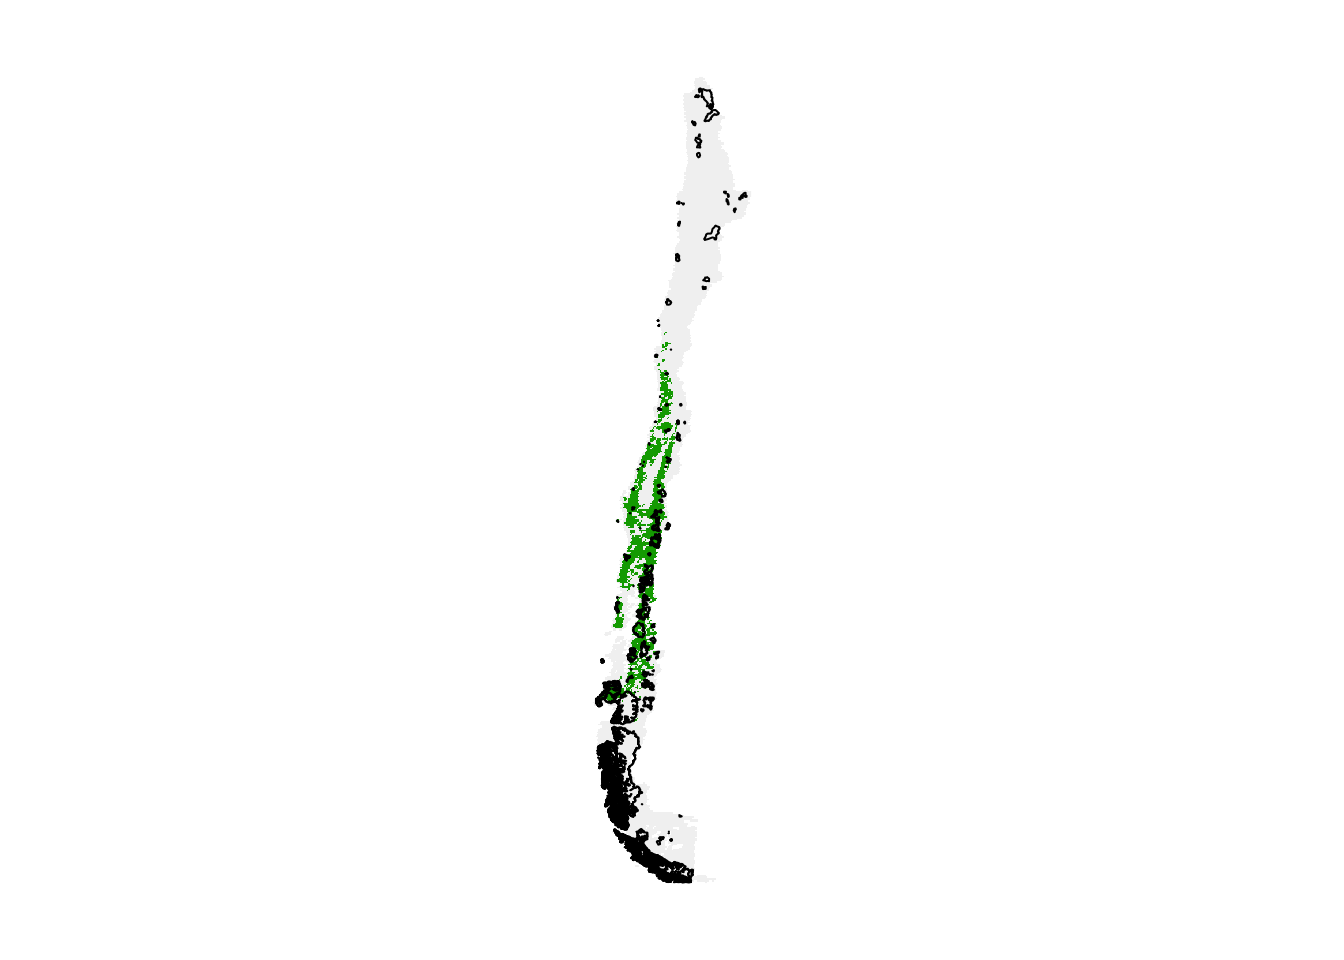
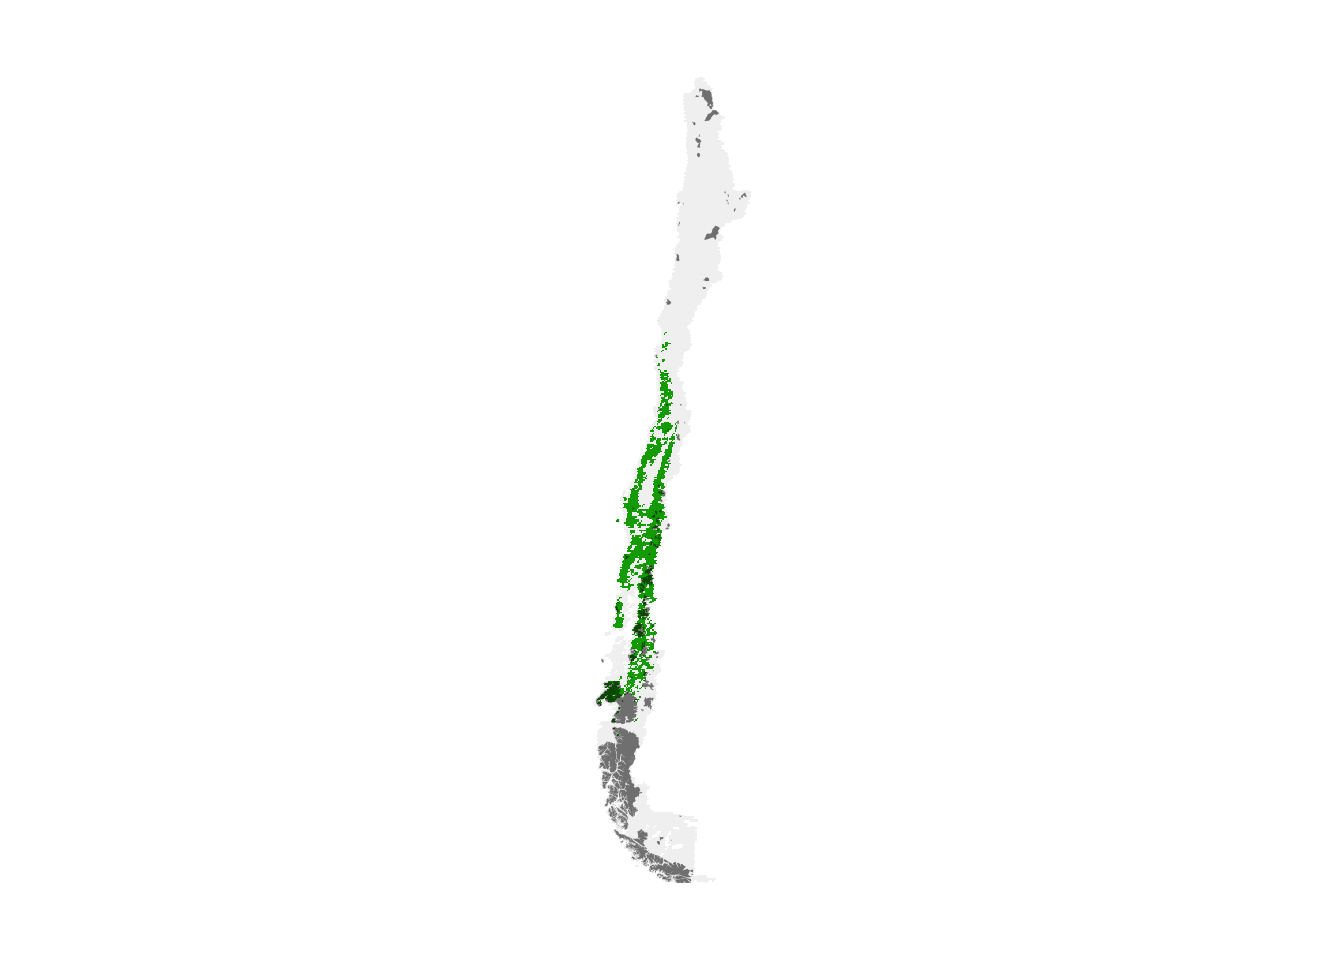
rebuild

Changed region(s): [[0.4375, 0.5, 0.5312, 0.9375], [0.5, 0.0938, 0.5312, 0.1562], [0.5312, 0.1875, 0.5625, 0.2188]]

diff --git a/docs/ebirdst.html b/docs/ebirdst.html
@@ -321,7 +321,7 @@ Checkpoint
 <h3 data-number="3.2.1" class="anchored" data-anchor-id="sec-ebirdst-review"><span class="header-section-number">3.2.1</span> Expert review</h3>
 <p>All species go through a process of expert human review prior to being released. The <code>ebirdst_runs</code> data frame also contains information from this review process. Reviewers assess each of the four seasons: breeding, non-breeding, pre-breeding migration, and post-breeding migration. Resident (i.e., non-migratory) species are identified by having <code>TRUE</code> in the <code>resident</code> column of <code>ebirdst_runs</code>, and these species are assessed across the whole year rather than seasonally. <code>ebirdst_runs</code> contains two important pieces of information for each season: a <strong>quality</strong> rating and <strong>seasonal dates</strong>.</p>
 <p>The <strong>seasonal dates</strong> define the weeks that fall within each season; the relative abundance estimates for these weeks get averaged to produce the seasonal relative abundance maps on the Status and Trends website. Breeding and non-breeding season dates are defined for each species as the weeks during those seasons when the species’ population does not move. For this reason, these seasons are also described as stationary periods. Migration periods are defined as the periods of movement between the stationary non-breeding and breeding seasons. Note that for many species these migratory periods include not only movement from breeding grounds to non-breeding grounds, but also post-breeding dispersal, molt migration, and other movements.</p>
-<p>Reviewers also examine the model estimates for each season to assess the amount of extrapolation or omission present in the model, and assign an associated quality rating ranging from 0 (lowest quality) to 3 (highest quality). Extrapolation refers to cases where the model predicts occurrence where the species is known to be absent, while omission refers to the model failing to predict occurrence where a species is known to be present.</p>
+<p>Reviewers also examine the model estimates for each season to assess the amount of extrapolation or omission present in the model, and assign an associated <strong>quality</strong> rating ranging from 0 (lowest quality) to 3 (highest quality). Extrapolation refers to cases where the model predicts occurrence where the species is known to be absent, while omission refers to the model failing to predict occurrence where a species is known to be present.</p>
 <p>A rating of 0 implies this season failed review and model results should not be used at all for this period. Ratings of 1-3 correspond to a gradient of more to less extrapolation and/or omission, and we often use a traffic light analogy when referring to them:</p>
 <ol type="1">
 <li><span style="color:#f20a02"><strong>Red light (1)</strong></span>: low quality, extensive extrapolation and/or omission and noise, but at least some regions have estimates that are accurate; can be used with caution in certain regions.</li>
@@ -697,7 +697,7 @@ Solution
 <span id="cb22-21"><a href="#cb22-21" aria-hidden="true" tabindex="-1"></a><span class="co">#&gt; min value   :     0.00 </span></span>
 <span id="cb22-22"><a href="#cb22-22" aria-hidden="true" tabindex="-1"></a><span class="co">#&gt; max value   :     2.73</span></span></code><button title="Copy to Clipboard" class="code-copy-button"><i class="bi"></i></button></pre></div>
 </div>
-<p>We can also subset the weekly cube to a range of weeks. For example, let’s subset to only the estimates for weeks in may, then take the average across the weeks.</p>
+<p>We can also subset the weekly cube to a range of weeks. For example, let’s subset to only the estimates for weeks in May, then take the average across the weeks.</p>
 <div class="cell" data-layout-align="center">
 <div class="sourceCode cell-code" id="cb23"><pre class="sourceCode r code-with-copy"><code class="sourceCode r"><span id="cb23-1"><a href="#cb23-1" aria-hidden="true" tabindex="-1"></a><span class="co"># determine which dates we want to include</span></span>
 <span id="cb23-2"><a href="#cb23-2" aria-hidden="true" tabindex="-1"></a>week_dates <span class="ot">&lt;-</span> <span class="fu">parse_raster_dates</span>(abd_weekly)</span>
@@ -731,7 +731,7 @@ Solution
 </div>
 </div>
 </div>
-<p>Recall that all eBird Status data products are provided for the entire globe regardless of the range of the species. Also, notice that some areas, such as most of the Amazon Basin, have missing values indicating that there was insufficient data to make a prediction in the region. Other areas, such as North America, had sufficient data to predict that the species is absent. Let’s try using the GIS data included in the workshop data package to crop the raster to the Chilean region of Los Lagos to make a more meaningful map.</p>
+<p>Recall that all eBird Status data products are provided for the entire globe, regardless of the range of the species. Also, notice that some areas, such as most of the Amazon Basin, have missing values indicating that there was insufficient data to make a prediction in the region. Other areas, such as North America, had sufficient data to predict that the species is absent. Let’s try using the GIS data included in the workshop data package to crop the raster to the Chilean region of Los Lagos to make a more meaningful map.</p>
 <div class="cell" data-layout-align="center">
 <div class="sourceCode cell-code" id="cb25"><pre class="sourceCode r code-with-copy"><code class="sourceCode r"><span id="cb25-1"><a href="#cb25-1" aria-hidden="true" tabindex="-1"></a><span class="co"># los lagos boundary, projected to match the raster data</span></span>
 <span id="cb25-2"><a href="#cb25-2" aria-hidden="true" tabindex="-1"></a>los_lagos <span class="ot">&lt;-</span> <span class="fu">read_sf</span>(<span class="st">"data/gis-data.gpkg"</span>,  <span class="at">layer =</span> <span class="st">"ne_states"</span>) <span class="sc">%&gt;%</span> </span>
@@ -811,7 +811,7 @@ Checkpoint
 <span id="cb27-18"><a href="#cb27-18" aria-hidden="true" tabindex="-1"></a><span class="co">#&gt; 5 2021-02-01  1.091 1.045 1.138</span></span>
 <span id="cb27-19"><a href="#cb27-19" aria-hidden="true" tabindex="-1"></a><span class="co">#&gt; 6 2021-02-08  1.182 1.130 1.237</span></span></code><button title="Copy to Clipboard" class="code-copy-button"><i class="bi"></i></button></pre></div>
 </div>
-<p>Now we can plot the trajectories with confidence intervals.</p>
+<p>Finally we can plot the trajectories with confidence intervals.</p>
 <div class="cell" data-layout-align="center">
 <div class="sourceCode cell-code" id="cb28"><pre class="sourceCode r code-with-copy"><code class="sourceCode r"><span id="cb28-1"><a href="#cb28-1" aria-hidden="true" tabindex="-1"></a><span class="fu">ggplot</span>(trajectory, <span class="fu">aes</span>(<span class="at">x =</span> week, <span class="at">y =</span> median)) <span class="sc">+</span></span>
 <span id="cb28-2"><a href="#cb28-2" aria-hidden="true" tabindex="-1"></a>  <span class="fu">geom_ribbon</span>(<span class="fu">aes</span>(<span class="at">ymin =</span> lower, <span class="at">ymax =</span> upper), <span class="at">alpha =</span> <span class="fl">0.3</span>)<span class="sc">+</span></span>
@@ -963,7 +963,7 @@ Tip
 </div>
 </div>
 <p>The absolute numbers in this map are challenging to interpret (they’re the mean proportion of the population across the 10 species in each cell). Instead, the values should be interpreted in relative terms, giving the relative importance of each cell for this set of 10 species.</p>
-<p>In the previous application, we examined existing public protected areas. For the sake of comparison, let’s imagine we want to identify the most important sites in Chile that cover the same area as the existing protected area network. What proportion of chile does the current protected area cover?</p>
+<p>In the previous application, we examined existing public protected areas. For the sake of comparison, let’s imagine we want to identify the most important sites in Chile that cover the same area as the existing protected area network. What proportion of Chile does the current protected area network cover?</p>
 <div class="cell" data-layout-align="center">
 <div class="sourceCode cell-code" id="cb34"><pre class="sourceCode r code-with-copy"><code class="sourceCode r"><span id="cb34-1"><a href="#cb34-1" aria-hidden="true" tabindex="-1"></a><span class="co"># proportion of chile in existing protected area network</span></span>
 <span id="cb34-2"><a href="#cb34-2" aria-hidden="true" tabindex="-1"></a>area_chile <span class="ot">&lt;-</span> <span class="fu">sum</span>(<span class="fu">st_area</span>(chile))</span>
@@ -984,12 +984,18 @@ Tip
 <p>Let’s compare maps of the existing protected area network and the sites selected using eBird Status and Trends.</p>
 <div class="cell" data-layout-align="center">
 <div class="sourceCode cell-code" id="cb36"><pre class="sourceCode r code-with-copy"><code class="sourceCode r"><span id="cb36-1"><a href="#cb36-1" aria-hidden="true" tabindex="-1"></a><span class="fu">par</span>(<span class="at">mar =</span> <span class="fu">c</span>(<span class="fl">0.25</span>, <span class="fl">0.25</span>, <span class="fl">0.25</span>, <span class="fl">0.25</span>))</span>
-<span id="cb36-2"><a href="#cb36-2" aria-hidden="true" tabindex="-1"></a>r_plot <span class="ot">&lt;-</span> <span class="fu">project</span>(selected_sites, crs, <span class="at">method =</span> <span class="st">"near"</span>) <span class="sc">%&gt;%</span> </span>
-<span id="cb36-3"><a href="#cb36-3" aria-hidden="true" tabindex="-1"></a>  <span class="fu">trim</span>()</span>
-<span id="cb36-4"><a href="#cb36-4" aria-hidden="true" tabindex="-1"></a>protected_proj <span class="ot">&lt;-</span> <span class="fu">st_transform</span>(protected, <span class="at">crs =</span> crs) <span class="sc">%&gt;%</span> </span>
-<span id="cb36-5"><a href="#cb36-5" aria-hidden="true" tabindex="-1"></a>  <span class="fu">st_geometry</span>()</span>
-<span id="cb36-6"><a href="#cb36-6" aria-hidden="true" tabindex="-1"></a><span class="fu">plot</span>(r_plot, <span class="at">axes =</span> <span class="cn">FALSE</span>, <span class="at">legend =</span> <span class="cn">FALSE</span>)</span>
-<span id="cb36-7"><a href="#cb36-7" aria-hidden="true" tabindex="-1"></a><span class="fu">plot</span>(<span class="fu">st_simplify</span>(protected_proj), <span class="at">add =</span> <span class="cn">TRUE</span>)</span></code><button title="Copy to Clipboard" class="code-copy-button"><i class="bi"></i></button></pre></div>
+<span id="cb36-2"><a href="#cb36-2" aria-hidden="true" tabindex="-1"></a></span>
+<span id="cb36-3"><a href="#cb36-3" aria-hidden="true" tabindex="-1"></a><span class="co"># high importance</span></span>
+<span id="cb36-4"><a href="#cb36-4" aria-hidden="true" tabindex="-1"></a>r_plot <span class="ot">&lt;-</span> <span class="fu">project</span>(selected_sites, crs, <span class="at">method =</span> <span class="st">"near"</span>) <span class="sc">%&gt;%</span> </span>
+<span id="cb36-5"><a href="#cb36-5" aria-hidden="true" tabindex="-1"></a>  <span class="fu">trim</span>()</span>
+<span id="cb36-6"><a href="#cb36-6" aria-hidden="true" tabindex="-1"></a>protected_proj <span class="ot">&lt;-</span> <span class="fu">st_transform</span>(protected, <span class="at">crs =</span> crs) <span class="sc">%&gt;%</span> </span>
+<span id="cb36-7"><a href="#cb36-7" aria-hidden="true" tabindex="-1"></a>  <span class="fu">st_geometry</span>()</span>
+<span id="cb36-8"><a href="#cb36-8" aria-hidden="true" tabindex="-1"></a><span class="fu">plot</span>(r_plot, <span class="at">axes =</span> <span class="cn">FALSE</span>, <span class="at">legend =</span> <span class="cn">FALSE</span>)</span>
+<span id="cb36-9"><a href="#cb36-9" aria-hidden="true" tabindex="-1"></a></span>
+<span id="cb36-10"><a href="#cb36-10" aria-hidden="true" tabindex="-1"></a><span class="co"># existing</span></span>
+<span id="cb36-11"><a href="#cb36-11" aria-hidden="true" tabindex="-1"></a><span class="fu">plot</span>(<span class="fu">st_simplify</span>(protected_proj), </span>
+<span id="cb36-12"><a href="#cb36-12" aria-hidden="true" tabindex="-1"></a>     <span class="at">col =</span> <span class="st">"#00000088"</span>, <span class="at">border =</span> <span class="cn">NA</span>,</span>
+<span id="cb36-13"><a href="#cb36-13" aria-hidden="true" tabindex="-1"></a>     <span class="at">add =</span> <span class="cn">TRUE</span>)</span></code><button title="Copy to Clipboard" class="code-copy-button"><i class="bi"></i></button></pre></div>
 <div class="cell-output-display">
 <div class="quarto-figure quarto-figure-center">
 <figure class="figure">
@@ -998,7 +1004,7 @@ Tip
 </div>
 </div>
 </div>
-<p>The high importance sites we identified are shown in green, while the existing protected area network is shown outlined in black. It appears the existing protected area network is mostly in southern Chile and there is limited overlap with areas of high importance to the 10 near-endemic species we chose to focus on. This is not surprising since the location of existing protected areas was not chosen specifically to protect these 10 species. Let’s quantify what proportion of the population these two regions capture.</p>
+<p>The high importance sites we identified are shown in green, while the existing protected area network is overlayed in grey. It appears the existing protected area network is mostly in southern Chile and there is limited overlap with areas of high importance to the 10 near-endemic species we chose to focus on. This is not surprising since the location of existing protected areas was not chosen specifically to protect these 10 species. Let’s quantify what proportion of the population these two regions capture.</p>
 <div class="cell" data-layout-align="center">
 <div class="sourceCode cell-code" id="cb37"><pre class="sourceCode r code-with-copy"><code class="sourceCode r"><span id="cb37-1"><a href="#cb37-1" aria-hidden="true" tabindex="-1"></a><span class="co"># mask the percent of population layers by the selected sites</span></span>
 <span id="cb37-2"><a href="#cb37-2" aria-hidden="true" tabindex="-1"></a>selected_pp <span class="ot">&lt;-</span> percent_population <span class="sc">%&gt;%</span> </span>
@@ -1040,7 +1046,7 @@ Tip
 </div>
 </div>
 </div>
-<p>So, for the same total area, we can capture a much larger proportion of the populations of these species if we use eBird Status data products for these species in our site prioritization. This exampel is, of course, overly simplistic. In practices, systematic conservation planning tools like the R package <a href="https://prioritizr.net/"><code>prioritizr</code></a> can perform much more complex prioritizations, accounting for both the spatial and temporal aspects of species distributions, taking advantage of <a href="https://link.springer.com/article/10.1007/BF02704970">site complementarity</a>, allowing for more flexible conservation goals, and accounting for both conservation value and economic cost of sites. eBird Status data products are well suited for use in systematic conservation planning exercises using <code>prioritizr</code>.</p>
+<p>So, for the same total area, we could capture a much larger proportion of the populations of these species if we use eBird Status data products for these species in our site prioritization. This example is, of course, overly simplistic. For example, in a real world application, different sites have different costs associated with protection and you would want to account for that during prioritization. For more complex prioritization problems, systematic conservation planning tools like the R package <a href="https://prioritizr.net/"><code>prioritizr</code></a> can be used effectively with eBird Status data products.</p>
 
 
 </section>

diff --git a/docs/ebird.html b/docs/ebird.html
@@ -768,13 +768,13 @@ Solution
 <span id="cb17-6"><a href="#cb17-6" aria-hidden="true" tabindex="-1"></a><span class="fu">nrow</span>(chutap1_zf)</span>
 <span id="cb17-7"><a href="#cb17-7" aria-hidden="true" tabindex="-1"></a><span class="co">#&gt; [1] 186906</span></span>
 <span id="cb17-8"><a href="#cb17-8" aria-hidden="true" tabindex="-1"></a><span class="fu">nrow</span>(chutap1_sampled)</span>
-<span id="cb17-9"><a href="#cb17-9" aria-hidden="true" tabindex="-1"></a><span class="co">#&gt; [1] 77265</span></span>
+<span id="cb17-9"><a href="#cb17-9" aria-hidden="true" tabindex="-1"></a><span class="co">#&gt; [1] 77249</span></span>
 <span id="cb17-10"><a href="#cb17-10" aria-hidden="true" tabindex="-1"></a></span>
 <span id="cb17-11"><a href="#cb17-11" aria-hidden="true" tabindex="-1"></a><span class="co"># how has prevalence changed</span></span>
 <span id="cb17-12"><a href="#cb17-12" aria-hidden="true" tabindex="-1"></a><span class="fu">mean</span>(chutap1_zf<span class="sc">$</span>obs_detected)</span>
 <span id="cb17-13"><a href="#cb17-13" aria-hidden="true" tabindex="-1"></a><span class="co">#&gt; [1] 0.0518</span></span>
 <span id="cb17-14"><a href="#cb17-14" aria-hidden="true" tabindex="-1"></a><span class="fu">mean</span>(chutap1_sampled<span class="sc">$</span>obs_detected)</span>
-<span id="cb17-15"><a href="#cb17-15" aria-hidden="true" tabindex="-1"></a><span class="co">#&gt; [1] 0.0728</span></span></code><button title="Copy to Clipboard" class="code-copy-button"><i class="bi"></i></button></pre></div>
+<span id="cb17-15"><a href="#cb17-15" aria-hidden="true" tabindex="-1"></a><span class="co">#&gt; [1] 0.0734</span></span></code><button title="Copy to Clipboard" class="code-copy-button"><i class="bi"></i></button></pre></div>
 </div>
 <p>So, after sampling, we’re left with 41% of the observations we started with, but the spatial and temporal bias has been significantly reduced.</p>
 <p>We now have the data and tools necessary to model relative abundance using eBird data, which will be the focus of <a href="abundance.html">Lesson&nbsp;<span>2</span></a>.</p>
